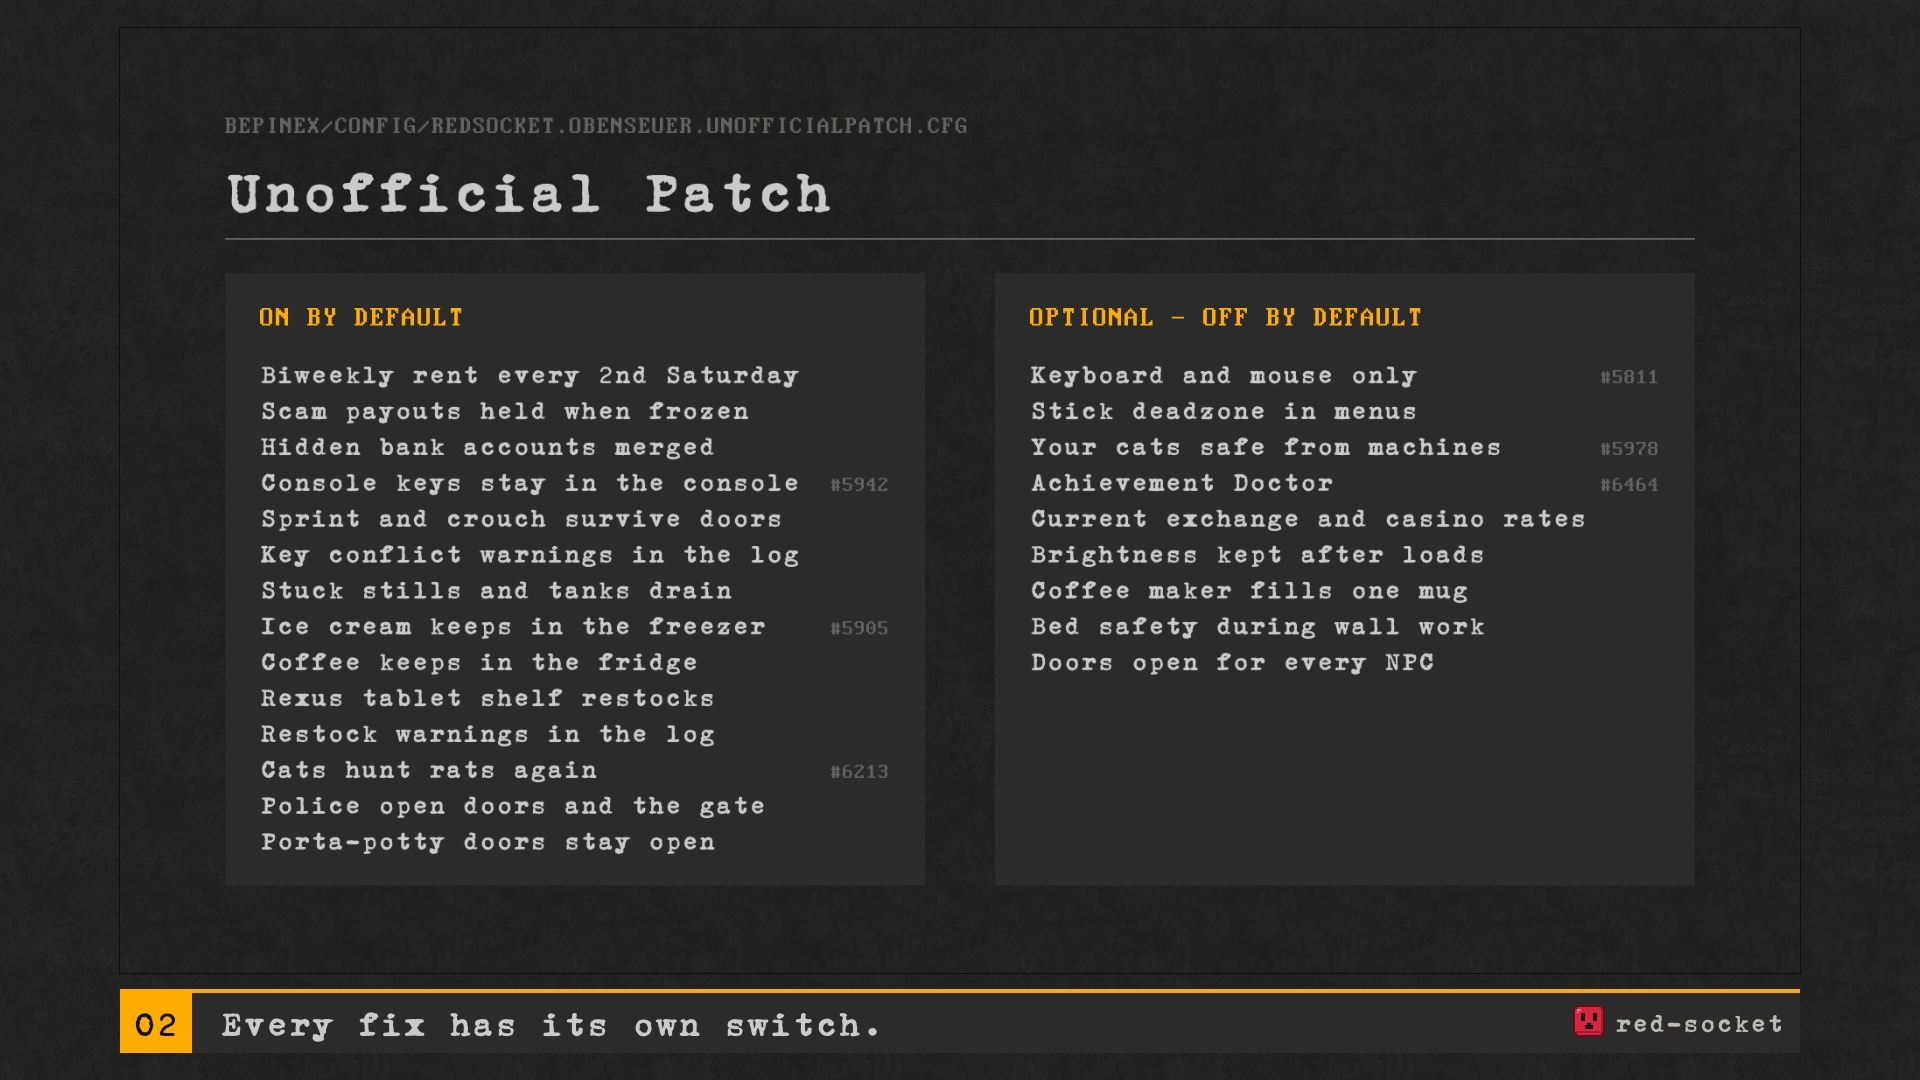
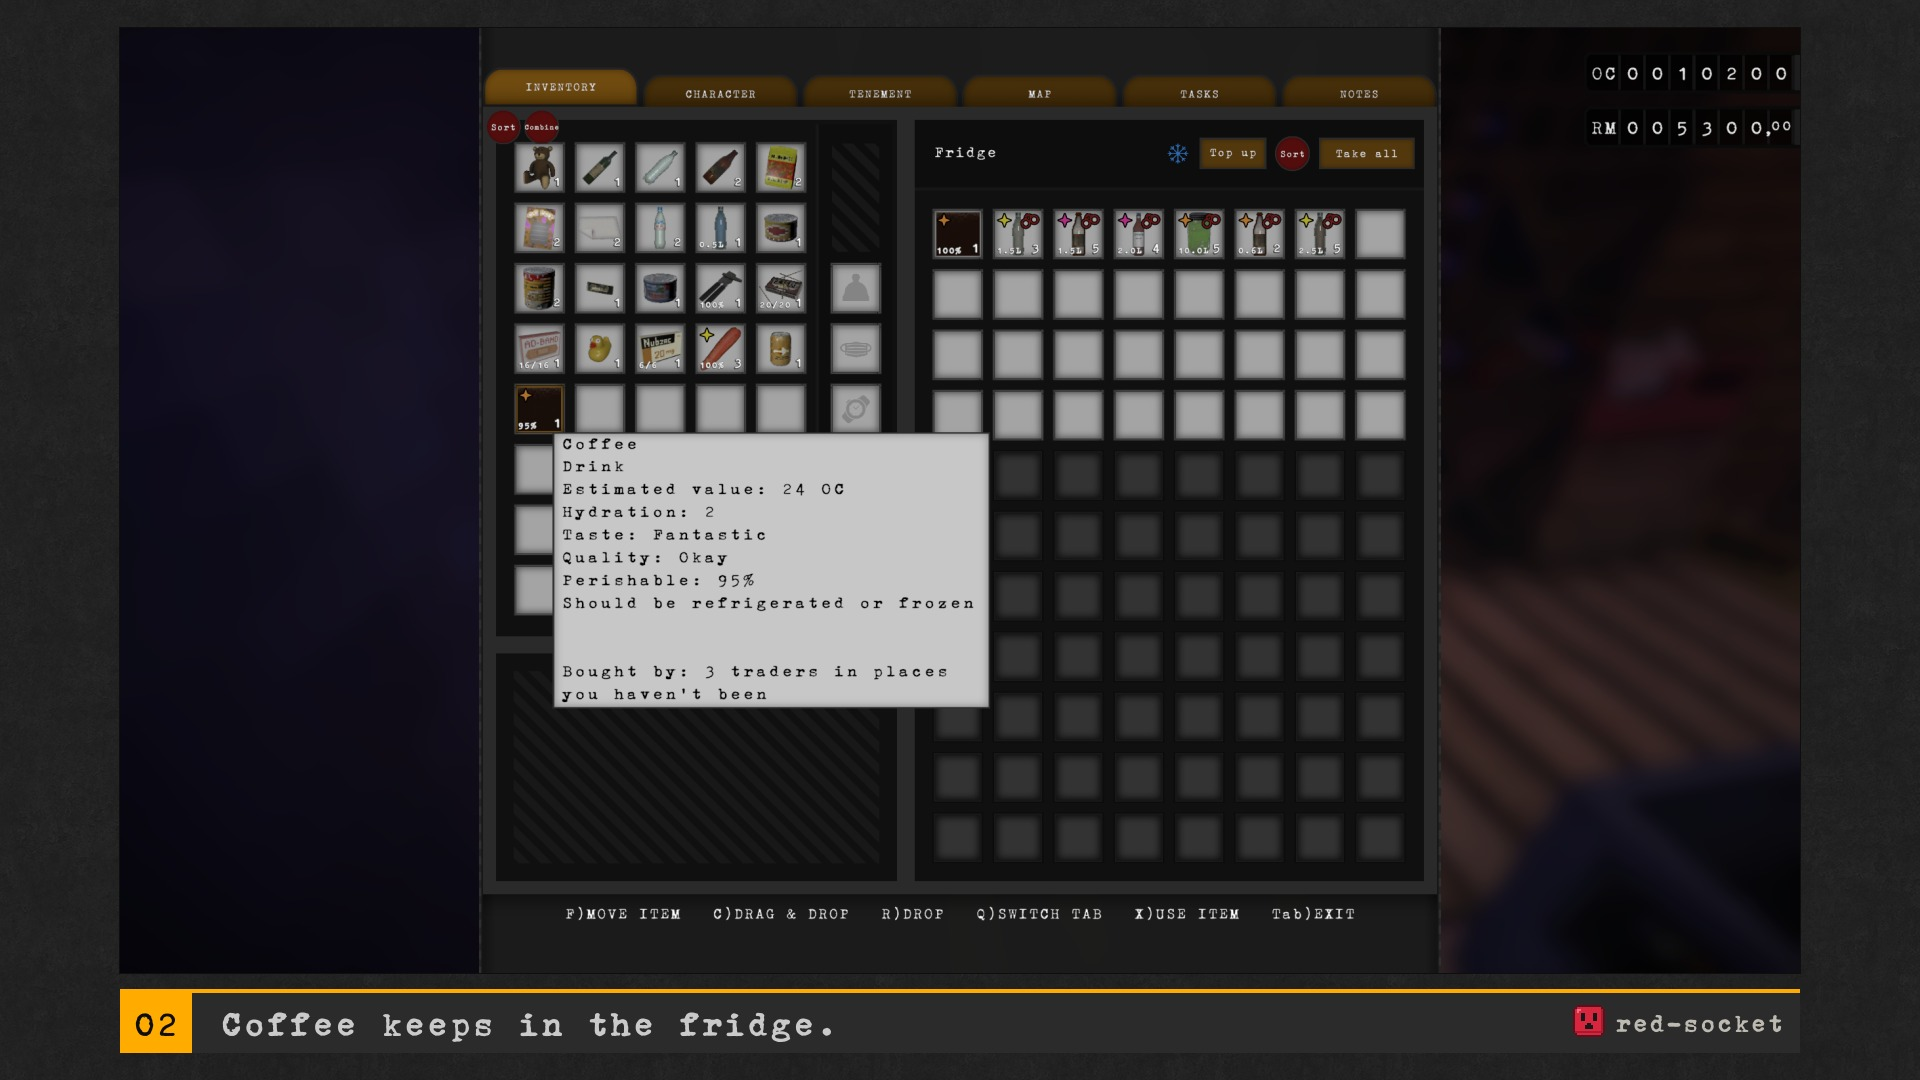
docs(UnofficialPatch): coffee gallery image, and the fixes card claims only what was tested

diff --git a/mods/UnofficialPatch/art/NOTES.md b/mods/UnofficialPatch/art/NOTES.md
@@ -4,9 +4,9 @@
 
 Render with `mods/UnofficialPatch/art/render.sh` (wraps `art/render.py`; `SHOTS=dir` points it at another folder, `PLACEHOLDER=1 OUT=dir` checks text fit without screenshots). Outputs go to `nexus/`: `header.jpg` (1400×400), `thumbnail.jpg` (1920×1080) and one `gallery-NN.jpg` per shot, in the order below. Template elements (fonts, grain, elevation line art, logo) come from the kit: `art/SOURCES.md` at the repo root. Captions and the tagline went through the humanizer skill on 2026-11-15.
 
-Screenshots are the user's own captures from a test character at 2560×1440 (system screenshots), UI scale 1.0, kept outside git in `~/Pictures/obenseuer-nexus/UnofficialPatch/` (copied from `~/Pictures/Screenshots/`). The test IDs refer to `.internal/test-plan.md`.
+Screenshots are captures from a test character at 2560×1440, UI scale 1.0 (the user's system screenshots, except `up-coffee.png`, a harness capture), kept outside git in `~/Pictures/obenseuer-nexus/UnofficialPatch/` (copied from `~/Pictures/Screenshots/`). The test IDs refer to `.internal/test-plan.md`.
 
-**Status: partial render 2026-11-16.** Header, thumbnail, the `up-shelf` frame and the fixes card are final; `up-coffee` is still wanted. `up-frozen` and `up-still` need a staged save state that the console can't set up, so they are optional now and probably won't be taken.
+**Status: render 2026-11-19.** Header, thumbnail, the `up-shelf` and `up-coffee` frames and the fixes card are final. `up-frozen` and `up-still` need a staged save state that the console can't set up, so they are optional now and probably won't be taken; `up-cat` is optional too.
 
 Tagline: "Small fixes for confirmed bugs." Key shot (header and thumbnail): `up-key.png`, a gameplay screenshot with the HUD hidden (no UI windows).
 
@@ -15,17 +15,18 @@ Tagline: "Small fixes for confirmed bugs." Key shot (header and thumbnail): `up-
 | 01 | `up-frozen.png` (optional) | Test S-033 hold, the "Account frozen" notification | A scam payout into a frozen account stays in that account. |
 | 02 | `up-shelf.png` | Test S-101, the Rexus tablet shelf filled, HUD hidden, wide shot of the shop | The Rexus tablet shelf restocks again. |
 | 03 | `up-still.png` | Test S-051 machine, the still offering Fill with 0.1 L | A still stuck with 0.1 L of liquid can be drained again. |
-| 04 | `up-coffee.png` | Test S-093, coffee in a fridge with the "refrigerated or frozen" tooltip | Coffee keeps in the fridge, and ice cream in the freezer. |
-| 05 | `up-cat.png` (optional) | A cat chasing a rat in the tenement | Cats hunt rats again. |
+| 04 | `up-coffee.png` | Test S-093, coffee in a fridge with the "refrigerated or frozen" tooltip | Coffee keeps in the fridge. |
+| 05 | `up-cat.png` (optional) | A cat chasing a rat in the tenement | Cats are no longer stopped from hunting rats. |
 | 06 | `fixes-card.svg` | No screenshot: `render.sh` renders the card, then frames it | Every fix has its own switch. |
 
-`fixes-card.svg` is our own layout in the house style (game fonts Erika Ormig and Perfect DOS VGA 437, `art/textures/concrete.png` grain). Its items follow the defaults in `Cfg.cs` and the issue numbers in `NEXUS.md`; update it when a fix is added or a default changes. Updated 2026-11-15 for the NPC door and cabin door fixes ("Police open doors and the gate", "Porta-potty doors stay open" on; "Doors open for every NPC" off); rows are now 41 px apart so 14 fit the panel, checked with a local render.
+`fixes-card.svg` is our own layout in the house style (game fonts Erika Ormig and Perfect DOS VGA 437, `art/textures/concrete.png` grain). Its items follow the defaults in `Cfg.cs` and the issue numbers in `NEXUS.md`; update it when a fix is added or a default changes. Updated 2026-11-15 for the NPC door and cabin door fixes ("Police open doors as they pass", "Porta-potty doors stay open" on; "Doors open for every NPC" off). Reworded 2026-11-19 to match what was tested: "Cats hunt rats again" became "Cats not stopped from hunting" and the toll gate claim was dropped (neither the gate nor a cat hunt has been seen in game); rows are now 41 px apart so 14 fit the panel, checked with a local render.
 
 | File | Derived from |
 |---|---|
 | `header.jpg`, `thumbnail.jpg` | `up-key.png`, copy of `Screenshot From 2026-11-16 03-16-42.png`; Bazaar square, the casino front with Bar Bizarre and Hotel Korsc behind, HUD hidden |
 | `gallery-01.jpg` | `up-shelf.png`, copy of `Screenshot From 2026-11-15 21-50-25.png` |
-| `gallery-02.jpg` | `fixes-card.svg`; rendered by render.sh, no screenshot |
+| `gallery-02.jpg` | `up-coffee.png`, harness capture 2026-11-19 (headless, UI scale 1, full UI); the Fridge panel at the Open Sewer Tenement market moonshine stall with a Coffee at 100%, and the tooltip on its twin in the inventory (95%) showing "Should be refrigerated or frozen" |
+| `gallery-03.jpg` | `fixes-card.svg`; rendered by render.sh, no screenshot |
 | all | house-style kit templates (`art/templates/`), fonts and textures listed in `art/SOURCES.md` |
 
 ## In-game UI
